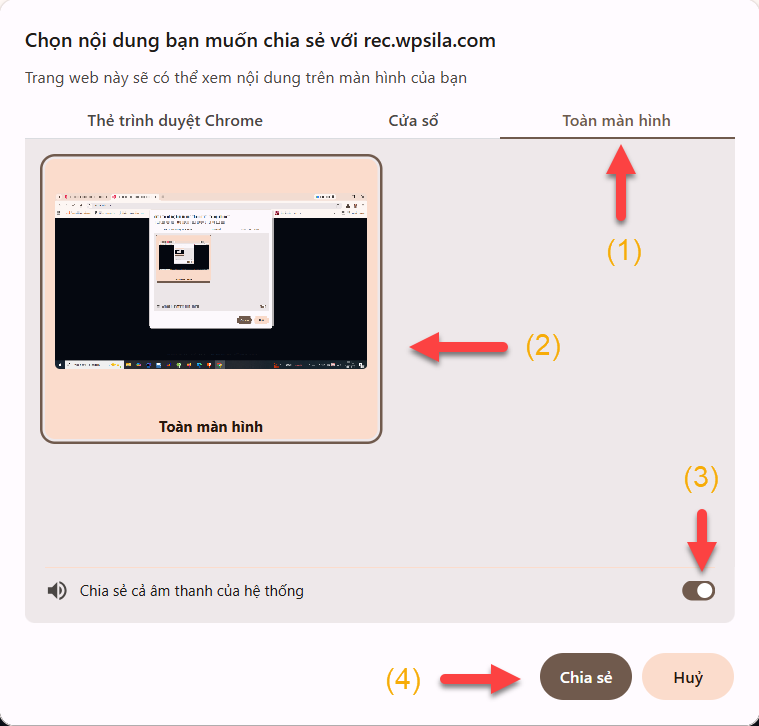
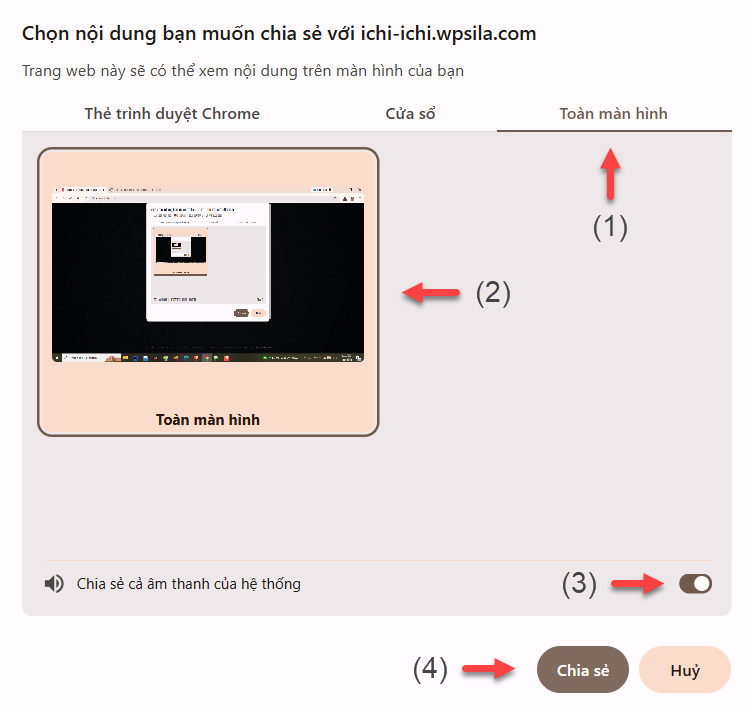
Add files via upload

diff --git a/src/app/app.html b/src/app/app.html
@@ -217,7 +217,7 @@
     <p class="text-[10px] text-slate-400/90 font-light tracking-widest uppercase flex items-center justify-center gap-1.5 flex-wrap">
       <button (click)="openSettingsModal()" class="hover:text-slate-200 transition-colors font-medium text-slate-300 underline decoration-slate-500 underline-offset-4 uppercase cursor-pointer">Cài đặt</button>
       <span>&bull;</span>
-      <span>ICHI ICHI &bull; v1.0.21</span>
+      <span>ICHI ICHI &bull; v1.0.22</span>
       <span>&bull;</span>
       <a href="https://github.com/kiencang/Ichi-Ichi" target="_blank" rel="noopener noreferrer" class="hover:text-slate-200 transition-colors cursor-pointer">GitHub</a>
       <span>&bull;</span>

diff --git a/src/app/guide-modal.ts b/src/app/guide-modal.ts
@@ -57,7 +57,7 @@ import { ChangeDetectionStrategy, Component, model } from '@angular/core';
                   </div>
                 </div>
                 <p class="text-sm text-slate-400 pl-10 leading-relaxed">
-                  Nếu lỡ tay bấm chặn, bạn có thể bấm biểu tượng Cài đặt trên thanh địa chỉ của trình duyệt, rồi click biểu tượng Micro (hoặc/và Video) có thanh gạch chéo để cấp quyền lại.
+                  Nếu lỡ tay bấm chặn (Không bao giờ cho phép), bạn có thể bấm biểu tượng Cài đặt trên thanh địa chỉ của trình duyệt, rồi click tiếp biểu tượng Micro (hoặc/và Camera) có thanh gạch chéo để cấp quyền lại.
                 </p>
                 <div class="pl-10">
                   <div class="rounded-xl overflow-hidden border border-slate-700/50 bg-slate-800/30">